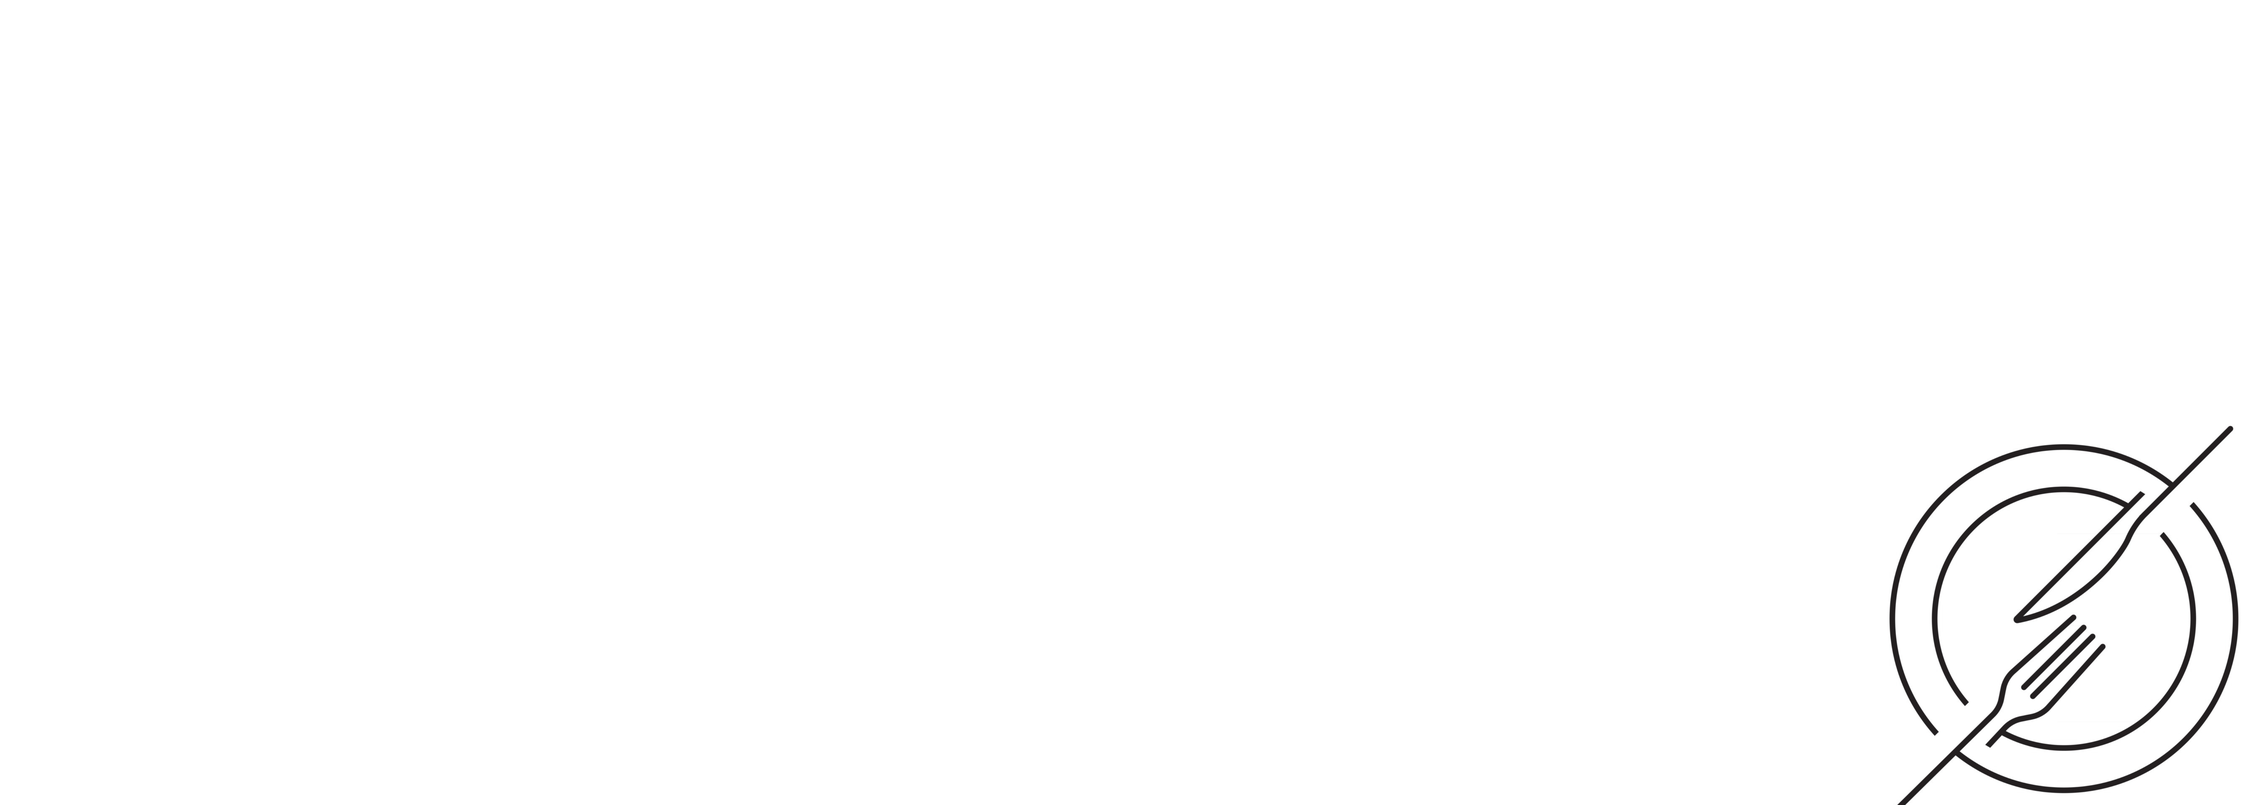
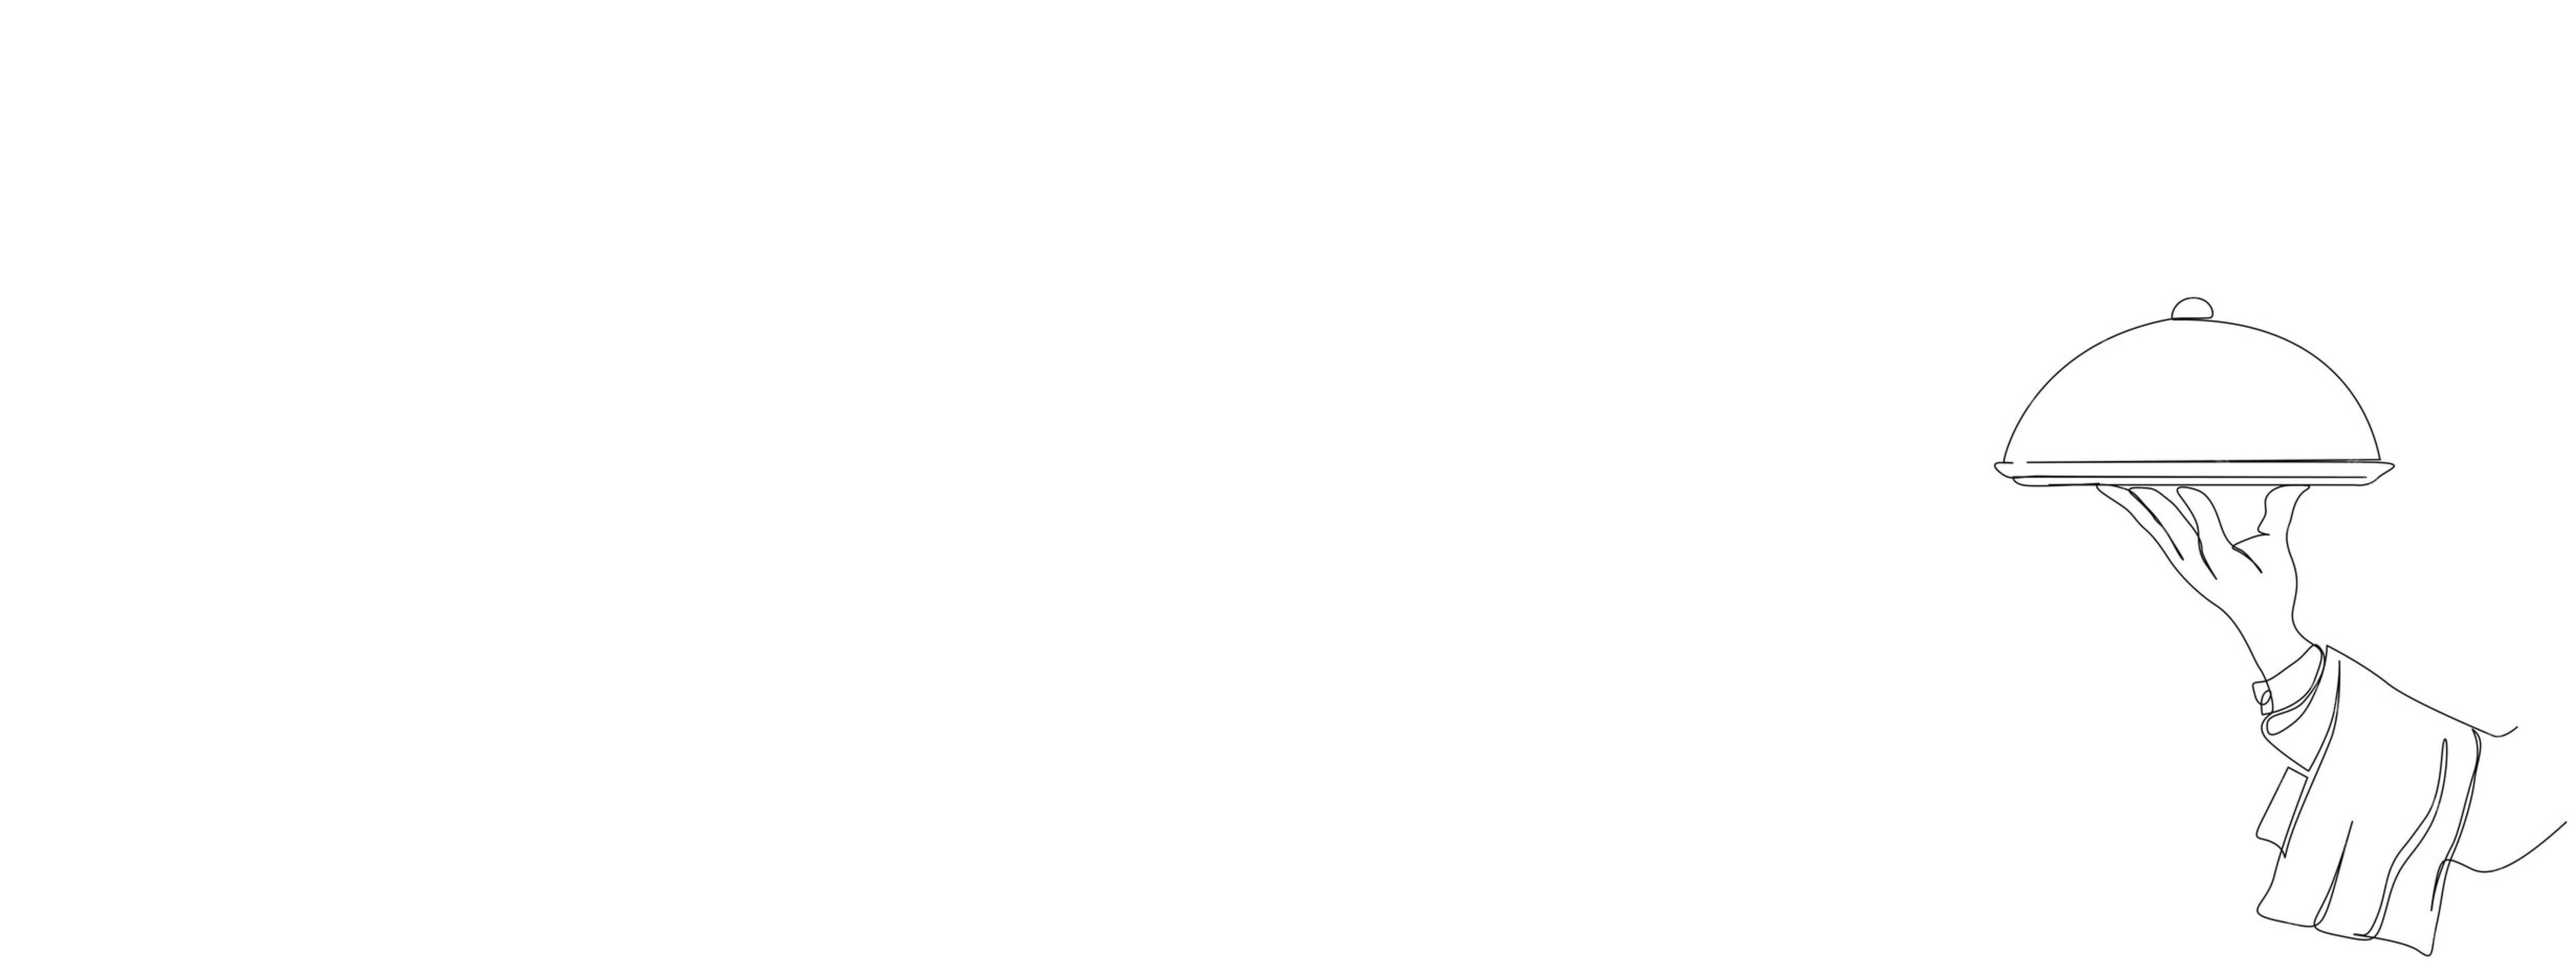
service

Changed region(s): [[0.7786, 0.468, 0.9966, 1.0], [0.8409, 0.312, 0.872, 0.3432]]

diff --git a/src/Pages/HomePage.jsx b/src/Pages/HomePage.jsx
@@ -1,49 +1,36 @@
 import React from 'react'
 import { useState, useEffect } from 'react';
- 
+import servicebg from '../assets/service bg.png'
+import paymentbg from '../assets/paymentbg.png'
+import todaybg from '../assets/today bg.png'
 
 
-const HomePage = () => {
-    const [height, setHeight] = useState(window.innerHeight);
-    const [width, setWidth] = useState(window.innerWidth);
-    useEffect(() => {
-        const mediaQuery = window.matchMedia(`(max-width: ${window.innerWidth}px)`);
 
-        const updateDimensions = () => {
-            setHeight(window.innerHeight);
-            setWidth(window.innerWidth);
-        };
-
-        // Add event listener for media query changes
-        mediaQuery.addEventListener('change', updateDimensions);
-
-        // Update the dimensions initially
-        updateDimensions();
-
-        // Cleanup the event listener
-        return () => mediaQuery.removeEventListener('change', updateDimensions);
-    }, []);
+const HomePage = ({ height, width }) => {
+  
     return (
         <>
             <div className='home d-flex flex-column ' style={{ width: `${width}px`, height: `${height}px`, }}>
-                <div className='today ' style={{ height: `${height * 0.2}px`, margin: "10px", marginTop: `${height * 0.1 + 10}px`, borderRadius: "10px", border: "1px solid", padding: "10px" ,}}>
+                <div className='today ' style={{
+                    height: `${height * 0.2}px`, margin: "10px", marginTop: `${height * 0.1 + 10}px`, borderRadius: "10px", border: "1px solid", padding: "10px",backgroundImage: `url(${todaybg})`,backgroundSize: 'cover',backgroundRepeat: 'no-repeat',
+                }}>
                     <div className=' d-flex justify-content-between'> <span style={{ fontSize: "18px", fontWeight: "600" }}>TODAY</span>
                         <span style={{ color: "rgba(50, 168, 82)", fontSize: "16px", fontWeight: "500" }}>08:30 am</span>
                     </div>
                     <div className='d-flex justify-content-center mt-4'><span style={{ fontSize: "20px", fontWeight: "600" }}>Qatar auditoruim</span></div>
                 </div>
                 <span style={{ marginLeft: "10px", fontSize: "18px", fontWeight: "500" }}>Overview</span>
-                <div className='service ' style={{ height: `${height * 0.2}px`, margin: "10px", marginTop: "10px", borderRadius: "10px", border: "1px solid", padding: "10px"  }}>
-                    <div className=' d-flex justify-content-between'> <span style={{ fontSize: "18px", fontWeight: "600" }}>Service</span>
+                <div className='service ' style={{ height: `${height * 0.2}px`, margin: "10px", marginTop: "10px", borderRadius: "10px", border: "1px solid", padding: "10px" , backgroundImage: `url(${servicebg})`,backgroundSize: 'cover',backgroundRepeat: 'no-repeat',}}>
+                    <div className=''> <span style={{ fontSize: "18px", fontWeight: "600" }}>Service</span>
                         <span style={{ color: "rgba(50, 168, 82)", fontSize: "16px", fontWeight: "500" }}></span>
                     </div>
-                    <div className='d-flex justify-content-center mt-4'><span style={{ fontSize: "20px", fontWeight: "600" }}>25</span></div>
+                    <div className='d-flex justify-content-start mt-2'><span style={{ fontSize: "20px", fontWeight: "500" }}>25</span></div>
                 </div>
-                <div className='Payment ' style={{ height: `${height * 0.2}px`, margin: "10px", marginTop: "10px", borderRadius: "10px", border: "1px solid", padding: "10px" }}>
+                <div className='Payment ' style={{ height: `${height * 0.2}px`, margin: "10px", marginTop: "10px", borderRadius: "10px", border: "1px solid", padding: "10px" ,backgroundImage: `url(${paymentbg})`,backgroundSize: 'cover',backgroundRepeat: 'no-repeat',}}>
                     <div className=' d-flex justify-content-between'> <span style={{ fontSize: "18px", fontWeight: "600" }}>Earnings</span>
                         <span style={{ color: "rgba(50, 168, 82)", fontSize: "16px", fontWeight: "500" }}></span>
                     </div>
-                    <div className='d-flex justify-content-center mt-4'><span style={{ fontSize: "20px", fontWeight: "600" }}>2500</span></div>
+                    <div className='d-flex justify-content-start mt-2'><span style={{ fontSize: "20px", fontWeight: "500" }}>2500</span></div>
                 </div>
             </div>
         </>

diff --git a/src/Pages/ServicePage.jsx b/src/Pages/ServicePage.jsx
@@ -1,28 +1,21 @@
 import React from 'react'
-import { useState, useEffect } from 'react';
 
-const ServicePage = () => {
-     const [height, setHeight] = useState(window.innerHeight);
-        const [width, setWidth] = useState(window.innerWidth);
-        useEffect(() => {
-            const mediaQuery = window.matchMedia(`(max-width: ${window.innerWidth}px)`);
-    
-            const updateDimensions = () => {
-                setHeight(window.innerHeight);
-                setWidth(window.innerWidth);
-            };
-    
-            // Add event listener for media query changes
-            mediaQuery.addEventListener('change', updateDimensions);
-    
-            // Update the dimensions initially
-            updateDimensions();
-    
-            // Cleanup the event listener
-            return () => mediaQuery.removeEventListener('change', updateDimensions);
-        }, []);
+
+const ServicePage = ({ height, width }) => {
+
   return (
-    <div>ServicePage</div>
+    <div className='home d-flex flex-column ' style={{ width: `${width}px`, marginTop: `${height * 0.1 + 10}px`, padding: "5px" }}>
+      <h5>Services</h5>
+      <div className='list d-flex justify-content-evenly align-items-center mb-2' style={{ height: `${height * 0.07}px`, width: `${width - 10}px`, border: "1px solid", borderRadius: "10px",fontSize:"13px" }}>
+        <span>1.</span>
+        <span>10-02-25</span>
+        <span>Qatar Auditoruim</span>
+        <span style={{color: "rgba(50, 168, 82)",}}>08:30 am</span>
+        <span style={{color: "rgba(191, 48, 48)",}}>04:30 pm</span>
+        <span><i class="fa-solid fa-triangle-exclamation text-warning" ></i></span>
+      </div>
+     
+    </div>
   )
 }
 

diff --git a/src/App.jsx b/src/App.jsx
@@ -35,9 +35,9 @@ const App = () => {
       <div>
         <Appbar height={height} width={width} />
         <Routes>
-          <Route path="/" element={<HomePage />} />
-          <Route path="/service" element={<ServicePage />} />
-          <Route path="/payment" element={<PaymentPage />} />
+          <Route path="/" element={<HomePage height={height} width={width} />} />
+          <Route path="/service" element={<ServicePage height={height} width={width} />} />
+          <Route path="/payment" element={<PaymentPage height={height} width={width} />} />
         </Routes>
         <BottomNavigation height={height} width={width}/>
         {/* <BottomNavigation height={height} width={width} /> */}
